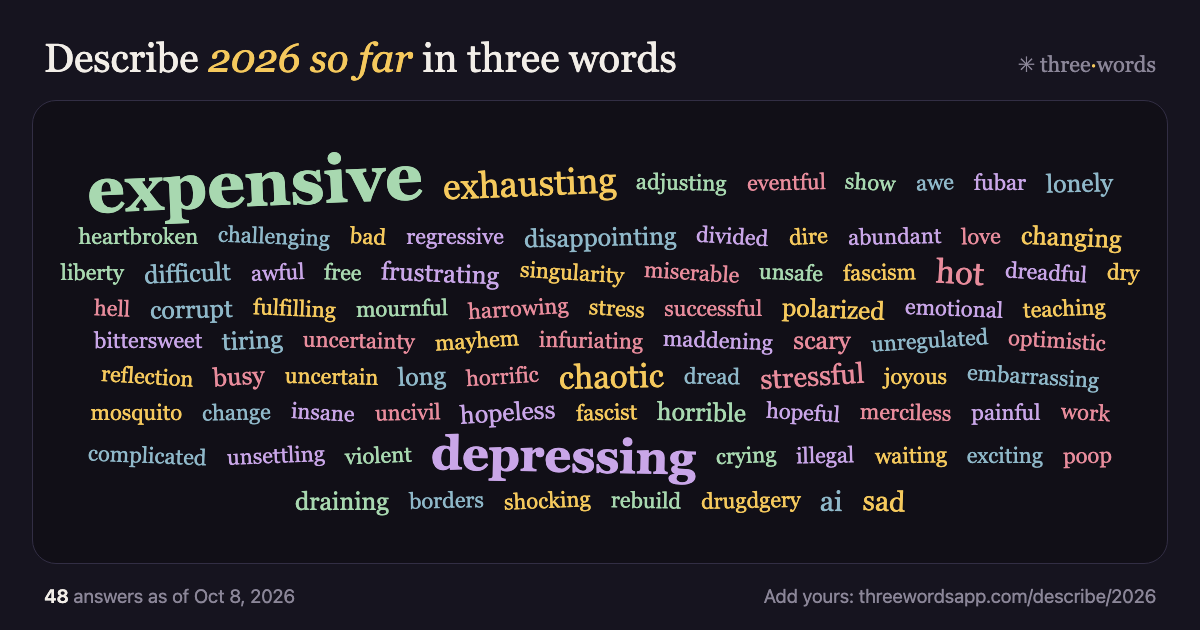
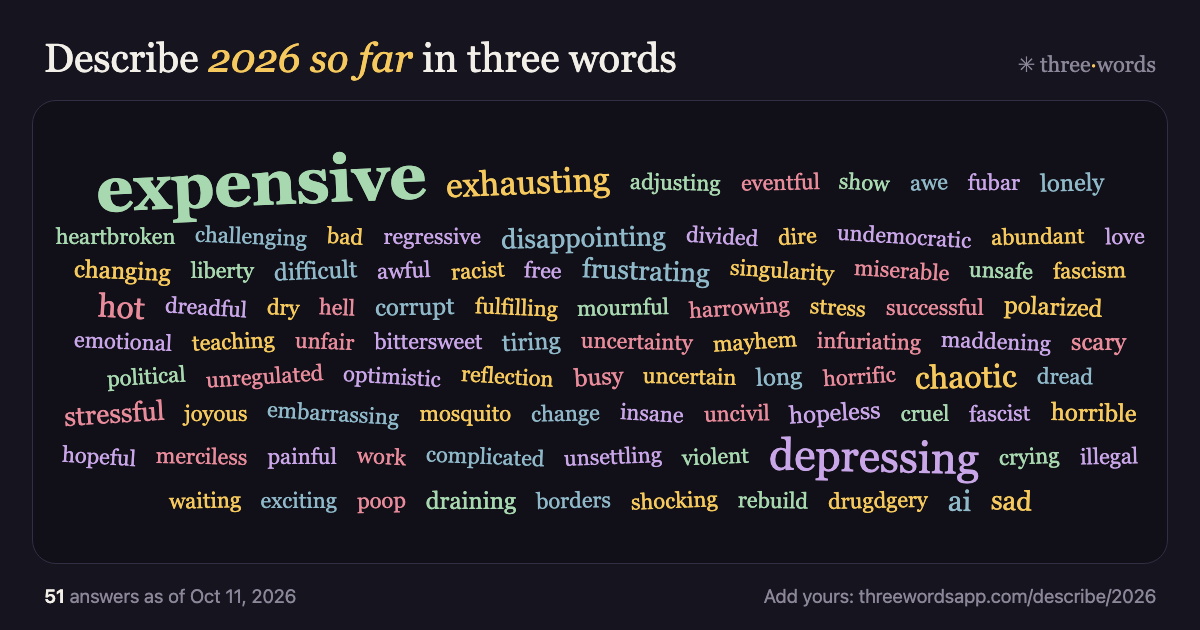
Preview images: 2026 at 51 answers, first image for the year-ahead cloud
Long topic names get a smaller heading in the image.

Changed region(s): [[0.0308, 0.2413, 0.9558, 0.8143], [0.0308, 0.9349, 0.2467, 0.9651]]

diff --git a/docs/describe/year-ahead/index.html b/docs/describe/year-ahead/index.html
@@ -11,6 +11,11 @@
 <meta property="og:title" content="Describe how you feel about the year ahead in three words" />
 <meta property="og:description" content="A live word cloud of how strangers feel about the year ahead. Anonymous, three words, one set per person." />
 <meta property="og:url" content="https://threewordsapp.com/describe/year-ahead/" />
+<meta property="og:image" content="https://threewordsapp.com/describe/year-ahead/og.png?v=20261011" />
+<meta property="og:image:width" content="1200" />
+<meta property="og:image:height" content="630" />
+<meta property="og:image:alt" content="Word cloud of how people feel about the year ahead." />
+<meta name="twitter:card" content="summary_large_image" />
 <style>
   :root { color-scheme: dark; }
   * { box-sizing: border-box; }

diff --git a/docs/describe/2026/index.html b/docs/describe/2026/index.html
@@ -11,7 +11,7 @@
 <meta property="og:title" content="Describe 2026 so far in three words" />
 <meta property="og:description" content="A live word cloud of how strangers describe the year so far. Anonymous, three words, one set per person." />
 <meta property="og:url" content="https://threewordsapp.com/describe/2026/" />
-<meta property="og:image" content="https://threewordsapp.com/describe/2026/og.png?v=20261008" />
+<meta property="og:image" content="https://threewordsapp.com/describe/2026/og.png?v=20261011" />
 <meta property="og:image:width" content="1200" />
 <meta property="og:image:height" content="630" />
 <meta property="og:image:alt" content="Word cloud of how people describe 2026 so far. The most-said words are expensive, chaotic and depressing." />

diff --git a/docs/index.html b/docs/index.html
@@ -91,7 +91,7 @@
     <p>Answers are anonymous and come from any browser; nobody else needs the app.
     Here's a real one, open to everyone right now:</p>
     <a class="livecard" href="/describe/2026/">
-      <img src="/describe/2026/og.png?v=20261008" alt="Live word cloud: how people describe 2026 so far" width="1200" height="630" loading="lazy" />
+      <img src="/describe/2026/og.png?v=20261011" alt="Live word cloud: how people describe 2026 so far" width="1200" height="630" loading="lazy" />
       <span>Describe 2026 so far in three words <small>Live. Add your three words, no account needed.</small></span>
     </a>
     <p class="alsolive">Also live: <a href="/describe/year-ahead/">Describe how you feel about the year ahead →</a></p>

diff --git a/tools/cloud-image.html b/tools/cloud-image.html
@@ -76,6 +76,8 @@
 
   const total = Number(data.total) || 0;
   document.getElementById('h1').innerHTML = `Describe <em>${esc(data.title || slug)}</em> in three words`;
+  // a long topic phrase gets a smaller heading so it stays on one line
+  if ((data.title || slug).length > 24) document.getElementById('h1').style.fontSize = '29px';
   document.getElementById('count').innerHTML =
     `<b>${total.toLocaleString()}</b> ${total === 1 ? 'answer' : 'answers'} as of ${new Date().toLocaleDateString('en-US', { month: 'short', day: 'numeric', year: 'numeric' })}`;
   document.getElementById('where').textContent = 'Add yours: threewordsapp.com/describe/' + slug;
